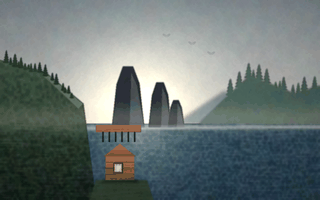
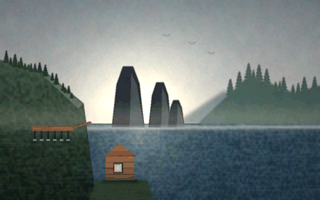
The cannery dock stands in the sea it serves
Third grounding catch, same class, user-caught again: the
title's cannery-on-pilings shared the house's screen column with
its legs ending mid-air, so it read as a dock floating above the
roof. Moved to the headland's base at frame left, deck low over
the water, six pilings reaching INTO the sea with a lap of foam
at each foot, and a ramp climbing to the shore.

The rule is now the GROUNDING CHECKLIST in the aesthetic bible,
because three catches in one day earn a checklist: every treeline
checked at the waterline; every structure's legs reach the
surface that carries them, with contact marks at the feet;
nothing shares a screen column with something it isn't touching.
It is the 2D twin of the 3D stump hunt - a shape not connected
to its support is the first thing every eye finds.

Claude-Session: https://claude.ai/code/session_01R3bSM67DFWoUu4UxFBU7g1

diff --git a/godot/tools/art/scene_painter.py b/godot/tools/art/scene_painter.py
@@ -289,12 +289,22 @@ def salmonberry_title(H, W):
     fill_poly(arr, [(W * 0.14, H * 0.36), (W * 0.26, H * 0.52), (W * 0.245, H * 0.545), (W * 0.132, H * 0.375)], (120, 140, 104), blur=1.5, opacity=0.7)
     sprucerow(arr, int(W * 0.02), int(W * 0.23), int(H * 0.40), C["fir"], seed=3, blur=1.0,
               ridge=[(0, H * 0.31), (W * 0.14, H * 0.37), (W * 0.26, H * 0.53)])
-    # the cannery on pilings + the house, small, at the base of the headland
-    dcx = int(W * 0.30)
-    fill_poly(arr, [(dcx, hz + 4), (dcx + W * 0.14, hz + 4), (dcx + W * 0.14, hz + 22), (dcx, hz + 22)], C["rust"], blur=0.5)
+    # the cannery on pilings — LEFT of the house's column, deck low
+    # over the water, pilings reaching INTO it with a lap of foam
+    # at each foot. (Earlier drafts floated it over the house roof
+    # with legs ending mid-air — the dock must stand in the sea it
+    # serves, clear of the buildings behind it.)
+    dcx = int(W * 0.10)
+    dck_w = int(W * 0.13)
+    grad_poly(arr, [(dcx, hz + 6), (dcx + dck_w, hz + 6), (dcx + dck_w, hz + 20), (dcx, hz + 20)],
+              (170, 100, 66), (120, 66, 44), blur=0.5)
+    fill_poly(arr, [(dcx - 3, hz + 4), (dcx + dck_w + 3, hz + 4), (dcx + dck_w + 3, hz + 8), (dcx - 3, hz + 8)], (92, 56, 38), blur=0.4)
     for i in range(6):
-        px = dcx + int(W * 0.02) + i * int(W * 0.02)
-        fill_poly(arr, [(px, hz + 22), (px + 3, hz + 22), (px + 3, hz + 48), (px, hz + 48)], C["ink"], blur=0)
+        px = dcx + 6 + i * (dck_w // 6)
+        fill_poly(arr, [(px, hz + 20), (px + 4, hz + 20), (px + 4, hz + 44), (px, hz + 44)], C["ink"], blur=0.3)
+        fill_poly(arr, [(px - 3, hz + 41), (px + 7, hz + 41), (px + 8, hz + 46), (px - 4, hz + 46)], C["foam"], blur=0.9, opacity=0.65)
+    # the ramp from the deck's shore end up to the headland's base
+    fill_poly(arr, [(dcx + dck_w - 4, hz + 10), (dcx + dck_w + int(W * 0.05), hz - 6), (dcx + dck_w + int(W * 0.05) + 6, hz - 3), (dcx + dck_w + 2, hz + 14)], (120, 78, 50), blur=0.5)
     hx = int(W * 0.33)
     # ground the house: a grass shelf and its shadow first
     fill_poly(arr, [(hx - W * 0.03, H * 0.9), (hx + W * 0.13, H * 0.9), (hx + W * 0.15, H), (hx - W * 0.05, H)], (52, 68, 50), blur=2)
